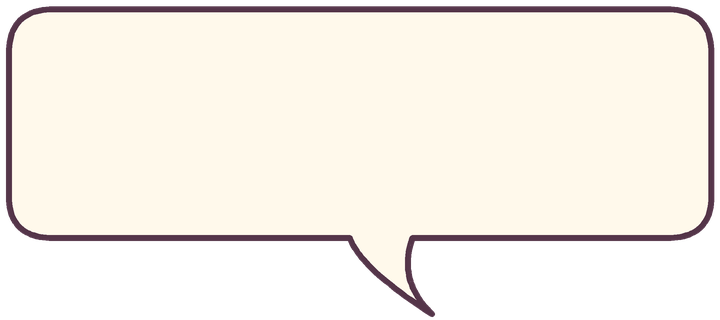
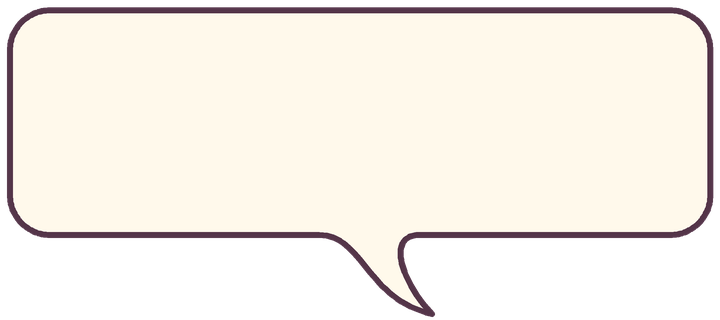
Apply Sibilla’s editorial intro layout and smooth the comic balloons

Changed region(s): [[0.0, 0.0, 1.0, 1.0], [0.0, 0.0625, 0.0306, 0.1562]]

diff --git a/assets/reader-calcolo-letterale.css b/assets/reader-calcolo-letterale.css
@@ -13,6 +13,65 @@
  margin-inline:auto;
  max-width:780px;
 }
+.cl-intro-card {
+ display:grid;
+ grid-template-columns:minmax(0,.52fr) minmax(0,1fr);
+ gap:clamp(20px,3cqw,44px);
+ align-items:center;
+}
+.cl-intro-copy {
+ min-width:0;
+}
+.cl-intro-copy > .rm-card-title {
+ max-width:12em;
+ margin:0 0 .55em;
+ font-size:clamp(1.7rem,3.35cqw,3.2rem);
+ line-height:1.08;
+}
+.cl-intro-copy > .rm-card-text,
+.cl-intro-copy .rm-reader-step {
+ max-width:none;
+ margin:0;
+ padding:0;
+}
+.cl-intro-copy p {
+ margin:0 0 .85em;
+ font-size:clamp(1rem,1.65cqw,1.28rem);
+ line-height:1.48;
+}
+.cl-intro-copy > .cl-comic-controls {
+ justify-items:start;
+ padding:0;
+ margin-top:.65rem;
+}
+.cl-intro-card .cl-game {
+ width:100%;
+ max-width:none;
+ margin:0;
+}
+@media (max-width:960px) {
+ .cl-intro-card {
+  grid-template-columns:minmax(0,1fr);
+  gap:16px;
+ }
+ .cl-intro-copy {
+  display:contents;
+ }
+ .cl-intro-copy > .rm-card-title {
+  grid-row:1;
+  margin:0;
+ }
+ .cl-intro-copy > .rm-card-text {
+  grid-row:2;
+ }
+ .cl-intro-card .cl-game {
+  grid-row:3;
+ }
+ .cl-intro-copy > .cl-comic-controls {
+  grid-row:4;
+  margin:0;
+ }
+}
 .cl-festival-card {
  display:grid;
  grid-template-columns:minmax(0, .8fr) minmax(0, 1.2fr);
@@ -176,27 +235,27 @@
  white-space:nowrap;
 }
 .cl-festival .cl-balloon[data-speaker="sibilla"] {
- --balloon-art:url('images/reader/sibilla-festival/balloon-sibilla-viale.png?v=2');
- --balloon-height:190%;
+ --balloon-art:url('images/reader/sibilla-festival/balloon-sibilla-viale.png?v=3');
+ --balloon-height:163%;
  --tail-x:87%;
  --speaker-x:32.5%;
- --speaker-y:50%;
+ --speaker-y:49%;
  max-width:36%;
 }
 .cl-festival .cl-balloon[data-speaker="red"] {
- --balloon-art:url('images/reader/sibilla-festival/balloon-red.png');
+ --balloon-art:url('images/reader/sibilla-festival/balloon-red.png?v=3');
  --tail-x:36.1%;
  --speaker-x:27%;
  --speaker-y:64%;
 }
 .cl-festival .cl-balloon[data-speaker="bjorne"] {
- --balloon-art:url('images/reader/sibilla-festival/balloon-bjorne.png');
+ --balloon-art:url('images/reader/sibilla-festival/balloon-bjorne.png?v=3');
  --tail-x:60%;
  --speaker-x:44.5%;
  --speaker-y:66%;
 }
 .cl-booth .cl-balloon {
- --balloon-art:url('images/reader/sibilla-festival/balloon-sibilla-banco.png?v=2');
+ --balloon-art:url('images/reader/sibilla-festival/balloon-sibilla-banco.png?v=3');
  --tail-x:1.95%;
  --speaker-x:64.5%;
  --speaker-y:41%;
@@ -287,7 +346,7 @@ body[data-reader-lesson="calcolo-letterale-introduzione"] math[display="block"] 
   max-width:58%;
  }
  .cl-festival .cl-balloon[data-speaker="sibilla"] {
-  --balloon-art:url('images/reader/sibilla-festival/balloon-bjorne.png');
+  --balloon-art:url('images/reader/sibilla-festival/balloon-bjorne.png?v=3');
   --balloon-height:136%;
   --tail-x:60%;
   --speaker-y:49%;

diff --git a/assets/reader-calcolo-letterale.js b/assets/reader-calcolo-letterale.js
@@ -50,7 +50,8 @@
  title:'Introduzione al calcolo letterale',subtitle:'Matematica · Algebra · Calcolo letterale',version:1,nextLesson:false,
  sections:[
  {id:'sfide',title:'Le sfide di Sibilla',cards:[
- {...card('Ora vi leggerò nella mente…',''),board:'cl-intro'},
+ {...card('Ora vi leggerò nella mente…',
+  '<p>Alla festa dell’Accademia c’è una bancarella insolita. Sibilla sostiene di saper leggere nel pensiero, e Red e Bjorne vogliono metterla alla prova.</p><p>La sfida è anche per te. Tieni pronto un foglio per i conti.</p>'),board:'cl-intro'},
  {...card('Prima sfida · La sfera di Sibilla',''),board:'cl-prediction'},
  {...card('Seconda sfida · Due numeri, proprio in quell’ordine','Scegli in segreto <strong>due numeri interi da 1 a 9</strong>, anche uguali, e stabilisci quale viene prima. Raddoppia il primo, aggiungi 5, moltiplica il risultato per 5 e infine aggiungi il secondo. Comunica a Sibilla <strong>soltanto il risultato finale</strong>.'),board:'cl-digits'},
  card('Come ha fatto?','Red guarda la sfera. «Lì dentro c’è qualcuno che suggerisce?» Bjorne si avvicina ancora un po’. «E se cambiassimo numeri?»<br><br>Nel primo gioco, scelte diverse portano alla stessa previsione. Nel secondo, invece, il risultato permette di ritrovare entrambe le scelte e il loro ordine.<br><br><strong>Per capire perché, dobbiamo descrivere le operazioni senza scegliere subito i numeri.</strong>')
@@ -101,13 +102,14 @@
   }
   return {scene,balloon,button,say};
  }
- function mountIntro(root,onNext){
+ function mountIntro(root,copy,onNext){
   const {scene,balloon,button,say}=comicPanel(root,festivalView);
+  copy.append(button.parentElement);
   for(const name of ['sibilla-viale','red','bjorne','sibilla-banco']){
    const image=document.createElement('img');
    image.hidden=true;
    image.alt='';
-   image.src=`${art}balloon-${name}.png${name==='sibilla-banco'?'?v=2':name==='sibilla-viale'?'?v=2':''}`;
+   image.src=`${art}balloon-${name}.png?v=3`;
    root.append(image);
   }
   const state=gameState.intro;
@@ -205,7 +207,14 @@
   root.className='cl-game';
   box.classList.add(kind==='cl-digits'?'cl-festival-card':'cl-comic-card');
   box.append(root);
-  if(kind==='cl-intro')return mountIntro(root,onNext);
+  if(kind==='cl-intro'){
+   box.classList.add('cl-intro-card');
+   const copy=document.createElement('div');
+   copy.className='cl-intro-copy';
+   copy.append(box.querySelector('.rm-card-title'),box.querySelector('.rm-card-text'));
+   box.prepend(copy);
+   return mountIntro(root,copy,onNext);
+  }
   if(kind==='cl-prediction')return mountPrediction(root,onNext);
   mountDigits(root);
   return ()=>{};

diff --git a/reader.html b/reader.html
@@ -57,8 +57,8 @@
 <script src="assets/fraction-copilot.js?v=6" defer></script>
 <script src="assets/reader-rational-boards.js?v=12" defer></script>
 <script src="assets/reader-division-intro.js?v=8" defer></script>
-<link rel="stylesheet" href="assets/reader-calcolo-letterale.css?v=8">
-<script src="assets/reader-calcolo-letterale.js?v=7" defer></script>
+<link rel="stylesheet" href="assets/reader-calcolo-letterale.css?v=9">
+<script src="assets/reader-calcolo-letterale.js?v=8" defer></script>
 <script src="assets/reader.js?v=108" defer></script>
 <script src="assets/reader-typography.js?v=1" defer></script>
 
